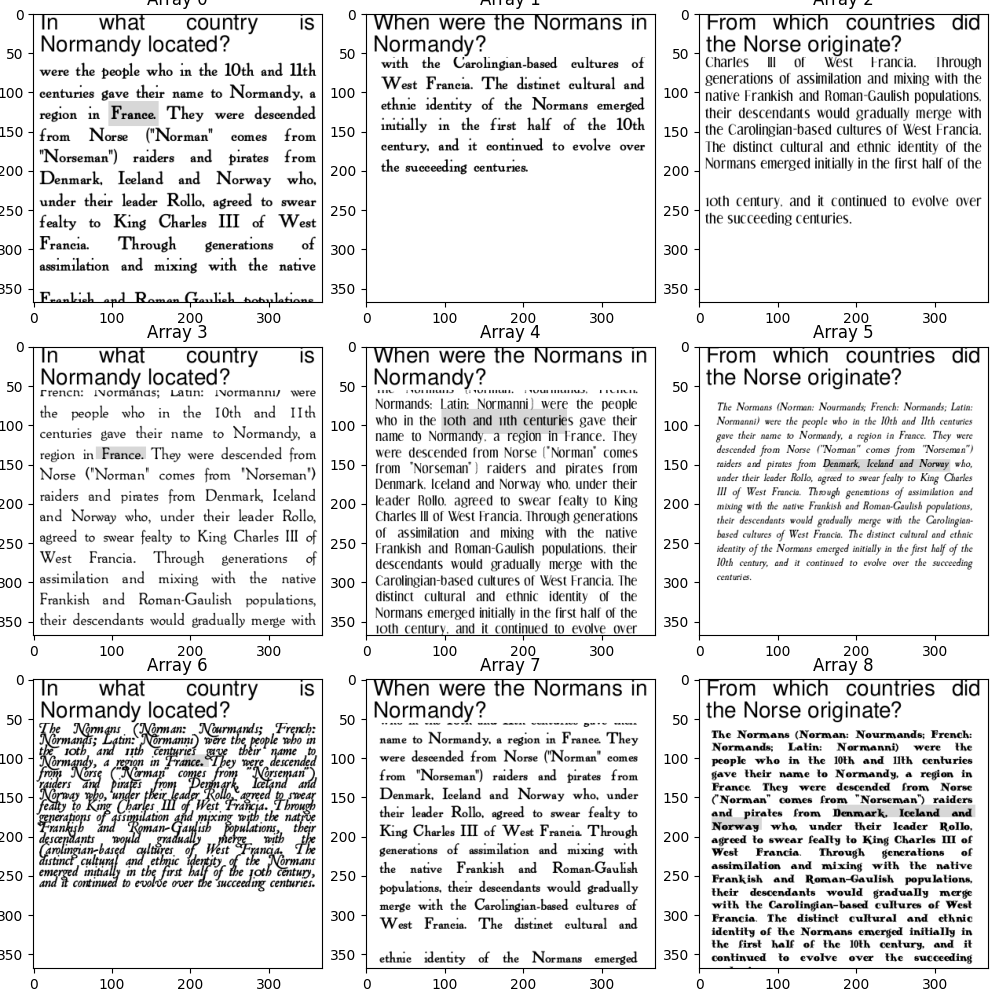
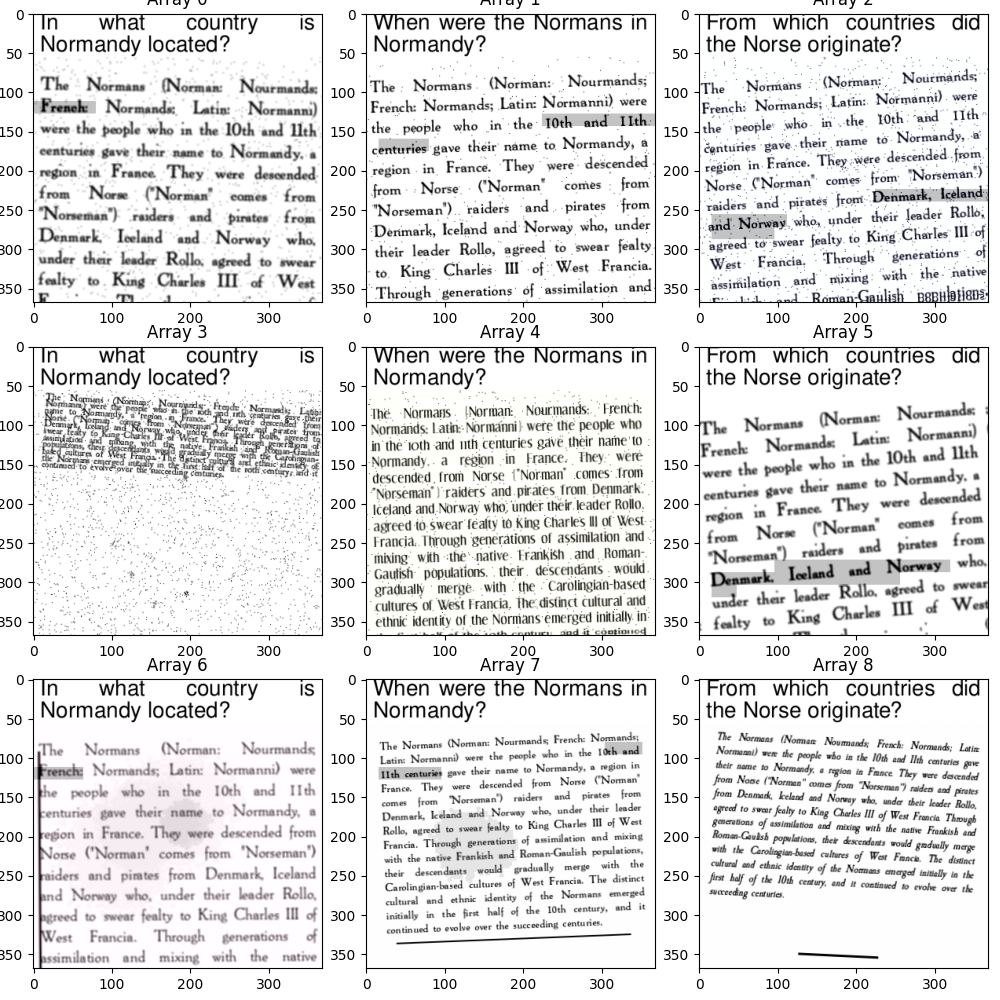
Added support for transforms for SQuAD

diff --git a/squad_dataset_for_pixel.py b/squad_dataset_for_pixel.py
@@ -7,6 +7,7 @@ from typing import Callable, List, Tuple, Dict
 from wandb.sdk.wandb_config import Config
 from utils.utils import crop_image, plot_arrays
 from utils.dataset_utils import CustomFont
+from dataset_transformations import SyntheticDatasetTransform
 from utils.squad_utils import (
     generate_pixel_mask_from_recangles,
     merge_rectangle_lines,
@@ -334,18 +335,20 @@ class SquadDatasetForPixel(IterableDataset):
             question_scan, context_scan, mask = self._generate_scans_fron_sample(data)
 
             if self.transform:
+                question_scan = torch.from_numpy(np.stack([question_scan] * 3))
                 context_scan, mask = self.transform(context_scan, mask)
 
-            scan = np.concatenate([question_scan, context_scan], axis=0)
+            scan = torch.concat([question_scan, context_scan], axis=1)
             scan = scan[: self.config.image_height, :]
 
-            mask = np.concatenate([np.zeros_like(question_scan), mask], axis=0)
+            mask = torch.concat([torch.zeros(question_scan.shape[1:]), mask], axis=0)
             mask = mask[: self.config.image_height, :]
             mask = convert_pixel_mask_to_patch_mask(
-                mask,
+                mask.numpy(),
                 self.config.patch_base_size[0],
                 self.config.mask_patching_tolerance,
             )
+            mask = torch.from_numpy(mask)
 
             inputs = {
                 "pixel_values": scan,
@@ -360,7 +363,7 @@ def main():
     wandb.init(config="configs/squad_config.yaml", mode="disabled")
     rng = np.random.RandomState(2)
 
-    transform = None
+    transform = SyntheticDatasetTransform(wandb.config, rng=rng)
     train_dataset = SquadDatasetForPixel(
         config=wandb.config, transform=transform, rng=rng, split="validation"
     )
@@ -371,10 +374,10 @@ def main():
         for batch in train_dataset:
             if counter == 3:
                 break
-            im = batch["pixel_values"].astype("int32")
-            mask = batch["label_mask"]
+            im = batch["pixel_values"].numpy().astype("float32").transpose(1, 2, 0)
+            mask = batch["label_mask"].numpy()
             mask = np.kron(mask, np.ones((16, 16)))
-            im[mask == 1] = im[mask == 1] - 40
+            im[mask == 1] = im[mask == 1] - 60
             im = np.clip(im, 0, 255).astype("uint8")
             figures.append(im)
             counter += 1

diff --git a/dataset_transformations.py b/dataset_transformations.py
@@ -270,7 +270,7 @@ class SyntheticDatasetTransform(object):
         image = np.clip(image, 0, 255).astype("uint8")
         return image
 
-    def __call__(self, image: np.ndarray) -> np.ndarray:
+    def __call__(self, image: np.ndarray, mask=None) -> np.ndarray:
         transformation = A.Compose(
             [
                 A.Lambda(
@@ -387,6 +387,11 @@ class SyntheticDatasetTransform(object):
                 ToTensorV2(),
             ]
         )
-
-        image = transformation(image=image)["image"]
-        return image
+        if mask is None:
+            image = transformation(image=image)["image"]
+            return image
+        else:
+            transformed = transformation(image=image, mask=mask)
+            image = transformed["image"]
+            mask = transformed["mask"]
+            return image, mask
